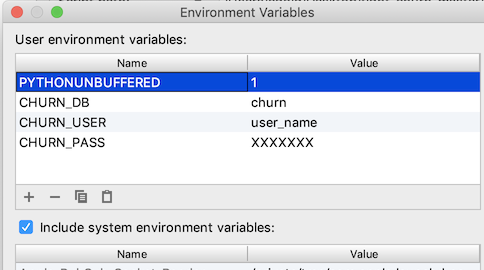
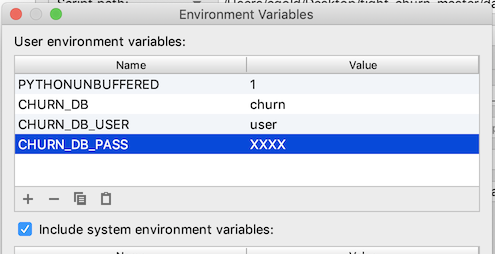
Readme updates through generating/loading data

Changed region(s): [[0.0, 0.0, 1.0, 1.0]]

diff --git a/README.md b/README.md
@@ -12,8 +12,9 @@ I apologize that so far I have not had a chance to provide more detailed setup i
 but I will do so ASAP (and I would welcome contributions in this area.)   I also want to apologize in advance
 because I am neither an expert in PostgreSQL nor an expert in Python, but I am about to give a lot
 of advice on how to setup and use these technologies - if you find I am not doing things the best
-way, or just not how you would have done it, all I can say is: (1) I'm doing the best I can; (2) This worked for me; and 
-(3) I welcome your contributions! :)
+way, or just not how you would have done it, please be patient.  Same goes for the rudimentary state
+of some of the code - I'm doing the best I can with the time I've got.  If you want to make things
+better please help help out! :)
 
 ### 1.1 Prerequisites
 
@@ -67,7 +68,8 @@ on the *Databases* node under *localhost* in the tree:
 
 ![Create Database in PgAdmin](/readme_files/pgadmin_createdb1.png)
 
-And enter the name of the new database:
+And enter the name of the new database (I used churn, but you can use whatever you want - just make the
+appropriate settings in your environment variable, section 1.2.6 below):
 
 ![Name the database](/readme_files/pgadmin_createdb2.png)
 
@@ -135,6 +137,7 @@ When you are done your project preferences should look like this:
 
 ![PyCharm Source Folders Selected](/readme_files/pycharm7_sources_selected.png)
 
+(At the time of creation of these instructions, later chapters have not been written.)
 
 #### 1.2.5 Installing Python Package Requirements
 
@@ -182,9 +185,9 @@ of the environment variables text box:
 ![PyCharm Add Config](/readme_files/pycharm12_browse_environ.png)
 
 That button launches a dialog to add the environment variables.  You need to add three:
-1.  CHURN_DB  : the name of the database for your churn analysis schemas
-1.  CHURN_USER : the user name to login to the database
-1.  CHURN_PASS : the password to login to the database
+1.  CHURN_DB  : the name of the database for your churn analysis schemas (step 1.2.1 above)
+1.  CHURN_DB_USER : the user name to login to the database
+1.  CHURN_DB_PASS : the password to login to the database
 
 After setting these, your environment variable dialog should look something like this:
 
@@ -208,27 +211,179 @@ Now choose to duplicate your existing Run configuration:
 This will make another configuration the same as the existing one - you can rename it and reset the 
 path to a different script, keeping the environment variables you already setup.
 
+One last thing: After creating the Run Configuration you actually run a script in PyCharm
+using the little green arrow next to the Configuration drop down menu...
+
+![PyCharm Run Script](/readme_files/pycharm16_run_script.png)
+
+(The green bug next to the arrow runs it in debug mode...)
 
 ### 1.3 Data Loading / Creation
 
-Code for generating artificial data to run the code is in the directory data-generation.  Details to come...
+To run any of the code in the book you need to get some data loaded into your database.
+There are two types of data you need:
 
+1. Subscriptions (or the equivalent) for purchase of the product
+1. Customer Behavior Events using the product
 
-#### 1.3.1 Schema Creation
-
-You will need to create a schema with the tables in the schema folder - 
-
-#### 1.3.2 Loading Your Own Data (If you have it)
-
-If you have your own data that you want to analyze... For details on the subscription data see
-the blog posts on http://www.fightchurnwithdata.com for more information:
-
+For more detailed information about what the data has to look like you can see these on-line
+resources:
 * [Subscription Data (and Churn Calculation)](http://fightchurnwithdata.com/how-to-calculate-churn-with-sql/)
 * [Event Data (and Metric Calculation)](http://fightchurnwithdata.com/user-metrics-101/)
 
-#### 1.3.3 Generating Random Data
+ Or, see Chapter 2 (for Subscriptions) and Chapter 3 (for Events) in the book. 
+ For setup purposes (the focuse here) there are two options for getting this kind of data:
+
+1. You already have data of your own - this is the option for anyone who already works on an online product or service
+1. You can generate a simulated data set from a random model - this is the option for most students or people doing this for training purposes 
+
+Note that unforatunately there is no publicly avaiable *real* data at this time. Subscription and
+customer data like this tends to be very sensitive information for the companies that hold it
+and so far there are no offers of data that can be made publicly available. (**If you have
+such data that you would be willing to make publicly available please contact the author.**)
+
+#### 1.3.1 Schema Creation
+
+Regardless of where you get your data from, you need to create the database schema and tables that it
+to hold it.  There is a python script in the folder *data-generation* for this.  If you have been
+following the instructions above then you have already made a Run Configuration for the script in
+PyCharm.  There's just one more thing to do: name the schema that you will create.
+
+1. Open the file *data-generation/py/churndb.py*
+1. Edit the schema name in the file to the name you want
+    1. If you are loading your own data, name it whatever you want
+    1. If you are generating simulated data, leave it set to the name **chunrsim2** which is the default model for simulation
+1. Run the script using PyCharm, as described above
+
+If everything works as planned you should see something like the following output:
+
+```
+/Users/user_name/fight-churn-master/venv/bin/python /Users/user_name/fight-churn-master/data-generation/py/churndb.py
+Creating schema test (if not exists)...
+Creating table event (if not exists)
+Creating table subscription (if not exists)
+Creating table event_type (if not exists)
+Creating table metric (if not exists)
+Creating table metric_name (if not exists)
+Creating table active_period (if not exists)
+Creating table observation (if not exists)
+
+Process finished with exit code 0
+```
+
+ 
+A new schema and tables were created in your PostgreSQL database, which you can confirm by looking
+in PgAdmin:
+
+![PgAdmin Churn Schema Tables](/readme_files/pgadmin_create_schema.png)
+
+If you made it this far then congratulations!  You just ran your first bit of the fight-churn code.
+
+#### 1.3.2 Generating Simulated Data
+
+If you don't have your own data to analyze then you should use the simulator program to create a 
+realistic (enough) simulation of subscription, churn and event data for you to run the book code examples on.
+Code for generating artificial data to run the code is in the directory `data-generation`.  In
+the near future there will be a blog post explaining how the simulation works, and the instructions
+here are limited to simply running the simulation.
+
+* Create a run configuration for the script `data-generation/churnsim.py` following the instructions in
+section 1.2.6.  
+
+If this is your first time following these instructions, just run it.  You should start to see output like this:
+
+```
+/Users/user_name/fight-churn-master/venv/bin/python /Users/user_name/fight-churn-master/data-generation/py/churnsim.py
+Matrix is not positive semi-definite: Multiplying by transpose
+
+Creating 500 initial customers for 2019-01-01 start date
+Simulated customer 0: 5 subscription, 10243 events @ 2019-05-21 06:00:01.611085
+Simulated customer 1: 5 subscription, 10076 events @ 2019-05-21 06:00:01.805228
+Simulated customer 2: 5 subscription, 11501 events @ 2019-05-21 06:00:02.034017
+Simulated customer 3: 5 subscription, 11643 events @ 2019-05-21 06:00:02.250260
+Simulated customer 4: 5 subscription, 9869 events @ 2019-05-21 06:00:02.433102
+...
+
+```
+
+There will be more like this and the whole process will take a couple of minutes.  The program has simulated the
+subscriptions, behavior and churn of a few hundred customers and inserted them into the database tables `subscription`
+and `event`. (There is no data for churns yet : you will derive that as part of the analysis process described
+in the book chapters 2 and 4.)  You can (and should) confirm the results of the data simulation by
+ querying the database directly:
+
+```
+churn=# select count(*) from churnsim2.subscription;
+ count 
+-------
+  2594
+(1 row)
+
+churn=# select count(*) from churnsim2.event;
+  count  
+---------
+ 5454701
+(1 row)
+
+churn=# 
+
+```
+
+(If you don't know how to launch a SQL prompt on your launch the PostgreSQL app and double click on
+the database.  Mine doesn't actually launch the terminal directly, but it points in the right direction....)
 
 
+![Mac PostgreSQL terminal launch](/readme_files/mac_launch_psql_terminal.png)
+
+
+Nice work!  Now you have the data you need to learn the techniques in the book!
+
+#### 1.3.3 Loading Your Own Data (If you have it)
+
+If you have your own data that you want to analyze then you need to load it into the `subscription` and 
+`event` tables of the churn analysis schema. I will outline the basic steps here, but I'm going to assume
+that if you work in an organization that has its own churn data to analyze then either you know how to
+export and import the data already (probably better than I could tell you), or you can get support from
+someone else in your oganization.  That said, for those of you have your own data but don't have a better
+ resource to turn to for how to load it, the process you will follow is:
+
+* Export the data from your equivalent of a `subscription` table. If you use Zuora to track your subscriptions, this
+is actually the `rate_plan_charge` object.  If you use Salesforce, this is may be the `Opportunity` table (where the
+opportunity was won.)   Each subscription record must have an account identifier, a start date 
+and a price, quoted in Monthly Recurring Revenue (MRR).  Terminated (churned) subscriptions must have the end date.  
+If you have other fields in the churn analysis subscription table (product name, units and quantity, billing frequency) 
+then you can export these as well, or else export a NULL in those positions (which will make the import simpler.)
+Follow the order in the churn analysis subscription table:
+    1. id : integer
+    1. account_id : integer
+    1. product : text
+    1. start_date : date
+    1. end_date : date
+    1. mrr : double
+    1. quantity : double
+    1. units : text
+    1. bill_period_months : integer
+
+* Export the data from your equivalent of an `event` table, and from whatever table names the event types (assuming
+there is a code name table separate from the event table.  Every event must have an account identifier, a timestamp,
+and a type.  The required fields for the events are:
+    1. id : integer
+    1. event_time : timestamp
+    1. event_type_id : integer
+* You can and should also export whatever additional data fields you have for your events that you think
+are important (amounts viewed or consumed, prices, content categories, etc.) Start by updating the the event table
+schema in `data-generation/schema/create_event.sql` and recreate the table including your fields (You will have to 
+drop the existing table that you created in step 1.3.1.)
+
+If you know how to import and export PostgreSQL data using the command line then have it.  Personally I did 
+it with the PgAdmin Import/Export GUI, which you launch by command clicking (right clicking) with your mouse on the
+listing for the table you want to import into:
+
+
+![Mac PostgreSQL terminal launch](/readme_files/mac_launch_psql_terminal.png)
+
+---
+---
 
 ## 2 Running the Code from Book Examples
 
@@ -242,6 +397,8 @@ Currently everything is hard coded.  If you want to run just one example or
 chapter you can uncomment the variables *one_chapter* and/or *one_example*.
 Command line parameters coming soon...
 
+---
+---
 
 ## 3 Calculating Metrics with the Framework
 
